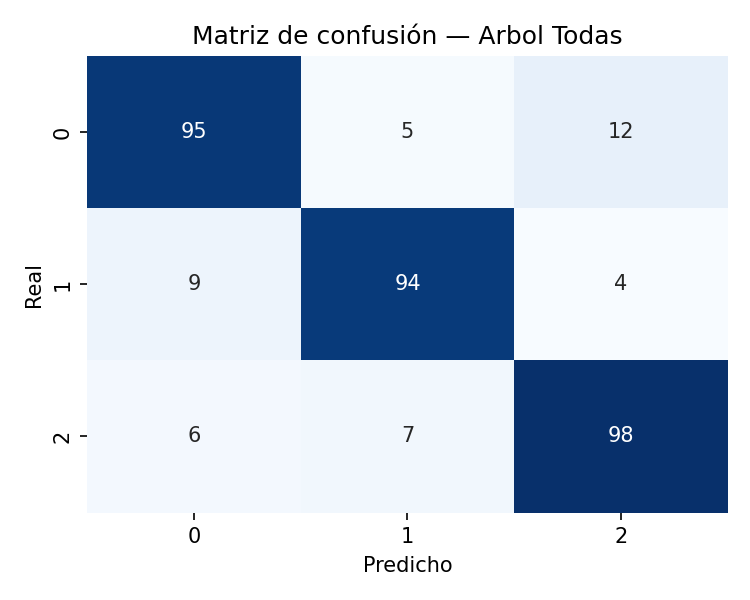
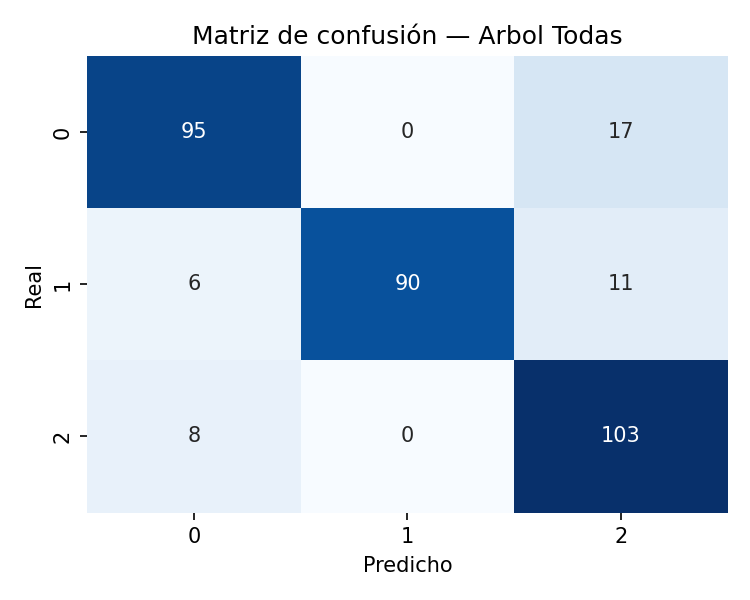
tree graph

diff --git a/StressLevelDataset/fase3.py b/StressLevelDataset/fase3.py
@@ -10,7 +10,9 @@ from plantilla import (
     graficar_ranking
 )
 from sklearn.naive_bayes import GaussianNB
-from sklearn.tree import DecisionTreeClassifier
+from sklearn.tree import DecisionTreeClassifier, plot_tree
+import matplotlib.pyplot as plt
+import seaborn as sns
 
 def preprocesar_datos(df):
     """
@@ -64,9 +66,17 @@ imprimir_resultado(m_nb_full)
 todas_las_metricas.append(m_nb_full)
 
 # Entrenar Árbol
-m_tree_full, _ = entrenar_y_evaluar(DecisionTreeClassifier(random_state=42), "Arbol_Todas", X_train, X_test, y_train, y_test)
+# Se recomienda max_depth para que el grafo sea visible en la presentación
+m_tree_full, modelo_tree_obj = entrenar_y_evaluar(DecisionTreeClassifier(max_depth=3, random_state=42), "Arbol_Todas", X_train, X_test, y_train, y_test)
 imprimir_resultado(m_tree_full)
 todas_las_metricas.append(m_tree_full)
+
+# --- GENERAR GRAFO ÁRBOL ACTIVIDAD 1 ---
+plt.figure(figsize=(20,10))
+plot_tree(modelo_tree_obj, feature_names=X.columns, class_names=['Bajo', 'Medio', 'Alto'], filled=True, rounded=True)
+plt.title("Árbol de Decisión - Todas las características")
+plt.savefig(ruta_resultado("grafo_arbol_todas.png"), dpi=300)
+plt.close()
 
 # Guardar matrices de confusión
 graficar_matriz_confusion(m_nb_full['matriz_confusion'], "Bayes Todas", ruta_resultado("cm_nb_todas.png"))
@@ -96,9 +106,16 @@ imprimir_resultado(m_nb_top)
 todas_las_metricas.append(m_nb_top)
 
 # Árbol con top features
-m_tree_top, _ = entrenar_y_evaluar(DecisionTreeClassifier(random_state=42), "Arbol_Top_IM", X_train_top, X_test_top, y_train_top, y_test_top)
+m_tree_top, modelo_tree_top_obj = entrenar_y_evaluar(DecisionTreeClassifier(random_state=42), "Arbol_Top_IM", X_train_top, X_test_top, y_train_top, y_test_top)
 imprimir_resultado(m_tree_top)
 todas_las_metricas.append(m_tree_top)
+
+# --- GENERAR GRAFO ÁRBOL ACTIVIDAD 2 ---
+plt.figure(figsize=(15,8))
+plot_tree(modelo_tree_top_obj, feature_names=mejores_features, class_names=['Bajo', 'Medio', 'Alto'], filled=True, rounded=True)
+plt.title("Árbol de Decisión - Top 5 Características")
+plt.savefig(ruta_resultado("grafo_arbol_top_im.png"), dpi=300)
+plt.close()
 
 # Guardar matrices
 graficar_matriz_confusion(m_nb_top['matriz_confusion'], "Bayes Top IM", ruta_resultado("cm_nb_top.png"))
